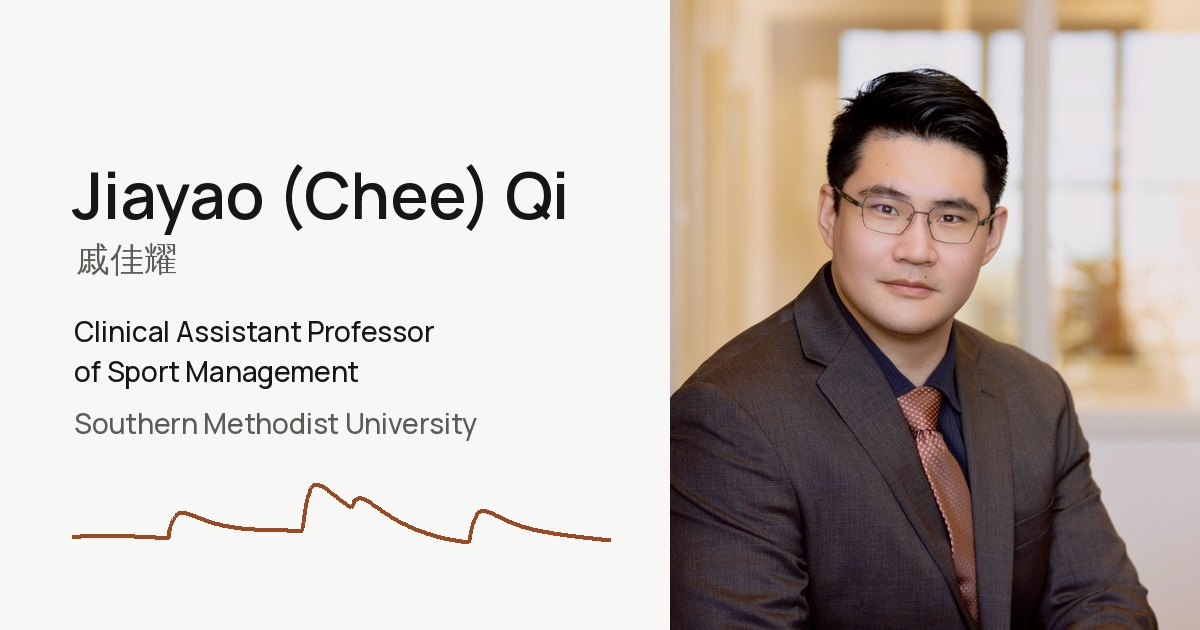
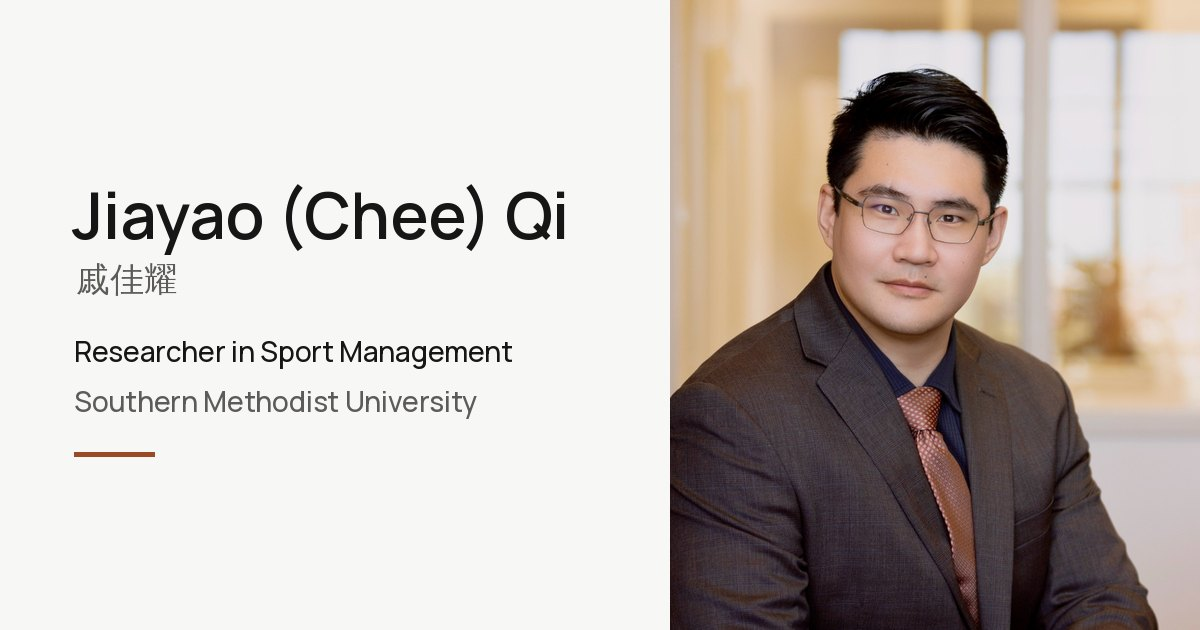
Reframe the site around emotion and identity, from the research statement
Changes the title to Researcher in Sport Management, rewrites the
summary, About paragraph, and tagline around emotion, identity, and
fandom, rebuilds the home research section and the research page with
the two research lines, the bridge between them, theory, and methods
including conventional quantitative and qualitative methods, and
redraws the social sharing image with the new title.

Claude-Session: https://claude.ai/code/session_01YW1G89wKU1CZZcHCs8tC1x

diff --git a/research.html b/research.html
@@ -3,38 +3,50 @@ layout: page
 title: Research
 eyebrow: Research
 permalink: /research/
-description: "Jiayao (Chee) Qi studies passion, careers, emotions, and fandom in sport, using biometrics, natural language processing, and large language models."
-lede: "My research addresses two areas of sport management and the bridge between them. Many sport professionals begin as fans, so I trace how team identification carries over into career decisions."
+description: "Jiayao (Chee) Qi studies how emotion and identity shape behavior in sport, among the people who build careers in the industry and the fans who consume it, using biometrics, computational text analysis, and conventional quantitative and qualitative methods."
+lede: "My research asks how emotion and identity shape behavior in sport, both for the people who build careers in the industry and for the fans who consume it. Sport is an emotional business on both counts: people pursue jobs in it out of love for the game, and fans attach to teams as an extension of who they are."
 ---
 {%- assign p = site.data.profile -%}
 {%- assign all_pubs = site.data.publications.journal | concat: site.data.publications.proceedings | concat: site.data.publications.chapters -%}
 
 <section class="block" aria-labelledby="areas-h">
-  <h2 id="areas-h" class="heading-5">Two areas</h2>
+  <h2 id="areas-h" class="heading-5">Two lines of research</h2>
+  <div class="prose">
+    <p class="body-3">{{ p.theory }}</p>
+  </div>
   {%- for a in p.research_areas %}
-  {%- if forloop.index == 1 %}{% assign key = "careers" %}{% else %}{% assign key = "fandom" %}{% endif %}
-  {%- assign related = all_pubs | where: "area", key -%}
+  {%- assign related = all_pubs | where: "area", a.key -%}
   <div class="block">
     <div class="prose">
-      <h3 class="heading-6">{{ a.name }}</h3>
-      <p class="body-3">{{ a.summary }}</p>
+      <p class="eyebrow">{{ a.name }}</p>
+      <h3 class="heading-6">{{ a.heading }}</h3>
+      {%- for para in a.detail %}
+      <p class="body-3">{{ para }}</p>
+      {%- endfor %}
     </div>
-    <ul class="work-list" style="margin-top: var(--s-300)">
+    <ul class="work-list related-work">
       {%- for pub in related limit: 4 %}
       {% include pub-item.html pub=pub %}
       {%- endfor %}
     </ul>
     {%- if related.size > 4 %}
-    <p style="margin-top: var(--s-200)"><a class="more" href="{{ '/publications/' | relative_url }}">See all {{ related.size }} in Publications{% include icons/arrow-up-right.svg %}</a></p>
+    <p class="see-all"><a class="more" href="{{ '/publications/' | relative_url }}">See all {{ related.size }} in Publications{% include icons/arrow-up-right.svg %}</a></p>
     {%- endif %}
   </div>
   {%- endfor %}
 </section>
 
+<section class="block" aria-labelledby="bridge-h">
+  <h2 id="bridge-h" class="heading-5">{{ p.bridge.heading }}</h2>
+  <div class="prose">
+    <p class="body-3">{{ p.bridge.text }}</p>
+  </div>
+</section>
+
 <section class="block" aria-labelledby="methods-h">
   <h2 id="methods-h" class="heading-5">Methods</h2>
   <div class="prose">
-    <p class="body-3">My distinctive contribution is methodological. I capture emotional responses with biometrics and mine big data from fan and media discourse.</p>
+    <p class="body-3">{{ p.methods_intro }}</p>
   </div>
   <dl class="methods">
     {%- for m in p.methods %}
@@ -43,17 +55,5 @@ lede: "My research addresses two areas of sport management and the bridge betwee
       <dd class="body-6">{{ m.detail }}</dd>
     </div>
     {%- endfor %}
-    <div>
-      <dt class="title-3">Languages</dt>
-      <dd class="body-6">{{ p.languages }}</dd>
-    </div>
   </dl>
-</section>
-
-<section class="block" aria-labelledby="now-h">
-  <h2 id="now-h" class="heading-5">Current direction</h2>
-  <div class="prose">
-    <p class="body-3">I now extend these methods to artificial intelligence. I use large language models as analytic tools, and I test how fans respond to AI commentators, chatbots, and AI personalized marketing.</p>
-    <p class="body-3">A current SMU Faculty Research Grant supports this work: <span style="color: var(--fg)">The personalization-privacy paradox: Fan acceptance of AI-driven marketing in sport</span>.</p>
-  </div>
 </section>

diff --git a/index.html b/index.html
@@ -50,16 +50,20 @@ layout: default
       <h2 id="research-h" class="heading-5">Research</h2>
       <a class="more" href="{{ '/research/' | relative_url }}">About my research{% include icons/arrow-up-right.svg %}</a>
     </div>
+    <p class="research-lead body-3">{{ p.research_lead }}</p>
     <div class="areas">
       {%- for a in p.research_areas %}
       <article class="area">
-        <h3 class="heading-6">{{ a.name }}</h3>
+        <p class="eyebrow">{{ a.name }}</p>
+        <h3 class="heading-6">{{ a.heading }}</h3>
         <p class="body-3">{{ a.summary }}</p>
       </article>
       {%- endfor %}
     </div>
+    <h3 class="methods-label title-4">Methods</h3>
     <dl class="methods">
-      {%- for m in p.methods limit: 4 %}
+      {%- assign home_methods = p.methods | where: "home", true -%}
+      {%- for m in home_methods %}
       <div>
         <dt class="title-3">{{ m.name }}</dt>
         <dd class="body-6">{{ m.detail }}</dd>

diff --git a/assets/css/site.css b/assets/css/site.css
@@ -388,7 +388,13 @@ body.menu-open { overflow: hidden; }
   border-radius: var(--r-2xl);
 }
 .area p { color: var(--muted); }
-.bridge { margin-top: var(--s-300); max-width: 680px; color: var(--muted); }
+.research-lead { max-width: 680px; color: var(--muted); margin-bottom: var(--s-400); }
+.area .eyebrow { margin-bottom: var(--s-50); }
+.methods-label { margin-top: var(--s-600); color: var(--muted); }
+.methods-label + .methods { margin-top: var(--s-200); }
+.related-work { margin-top: var(--s-300); }
+.prose + .block { margin-top: var(--s-600); }
+.see-all { margin-top: var(--s-200); }
 
 .methods { display: grid; gap: var(--s-300) var(--s-500); margin-top: var(--s-600); }
 @media (min-width: 768px) { .methods { grid-template-columns: 1fr 1fr; } }
